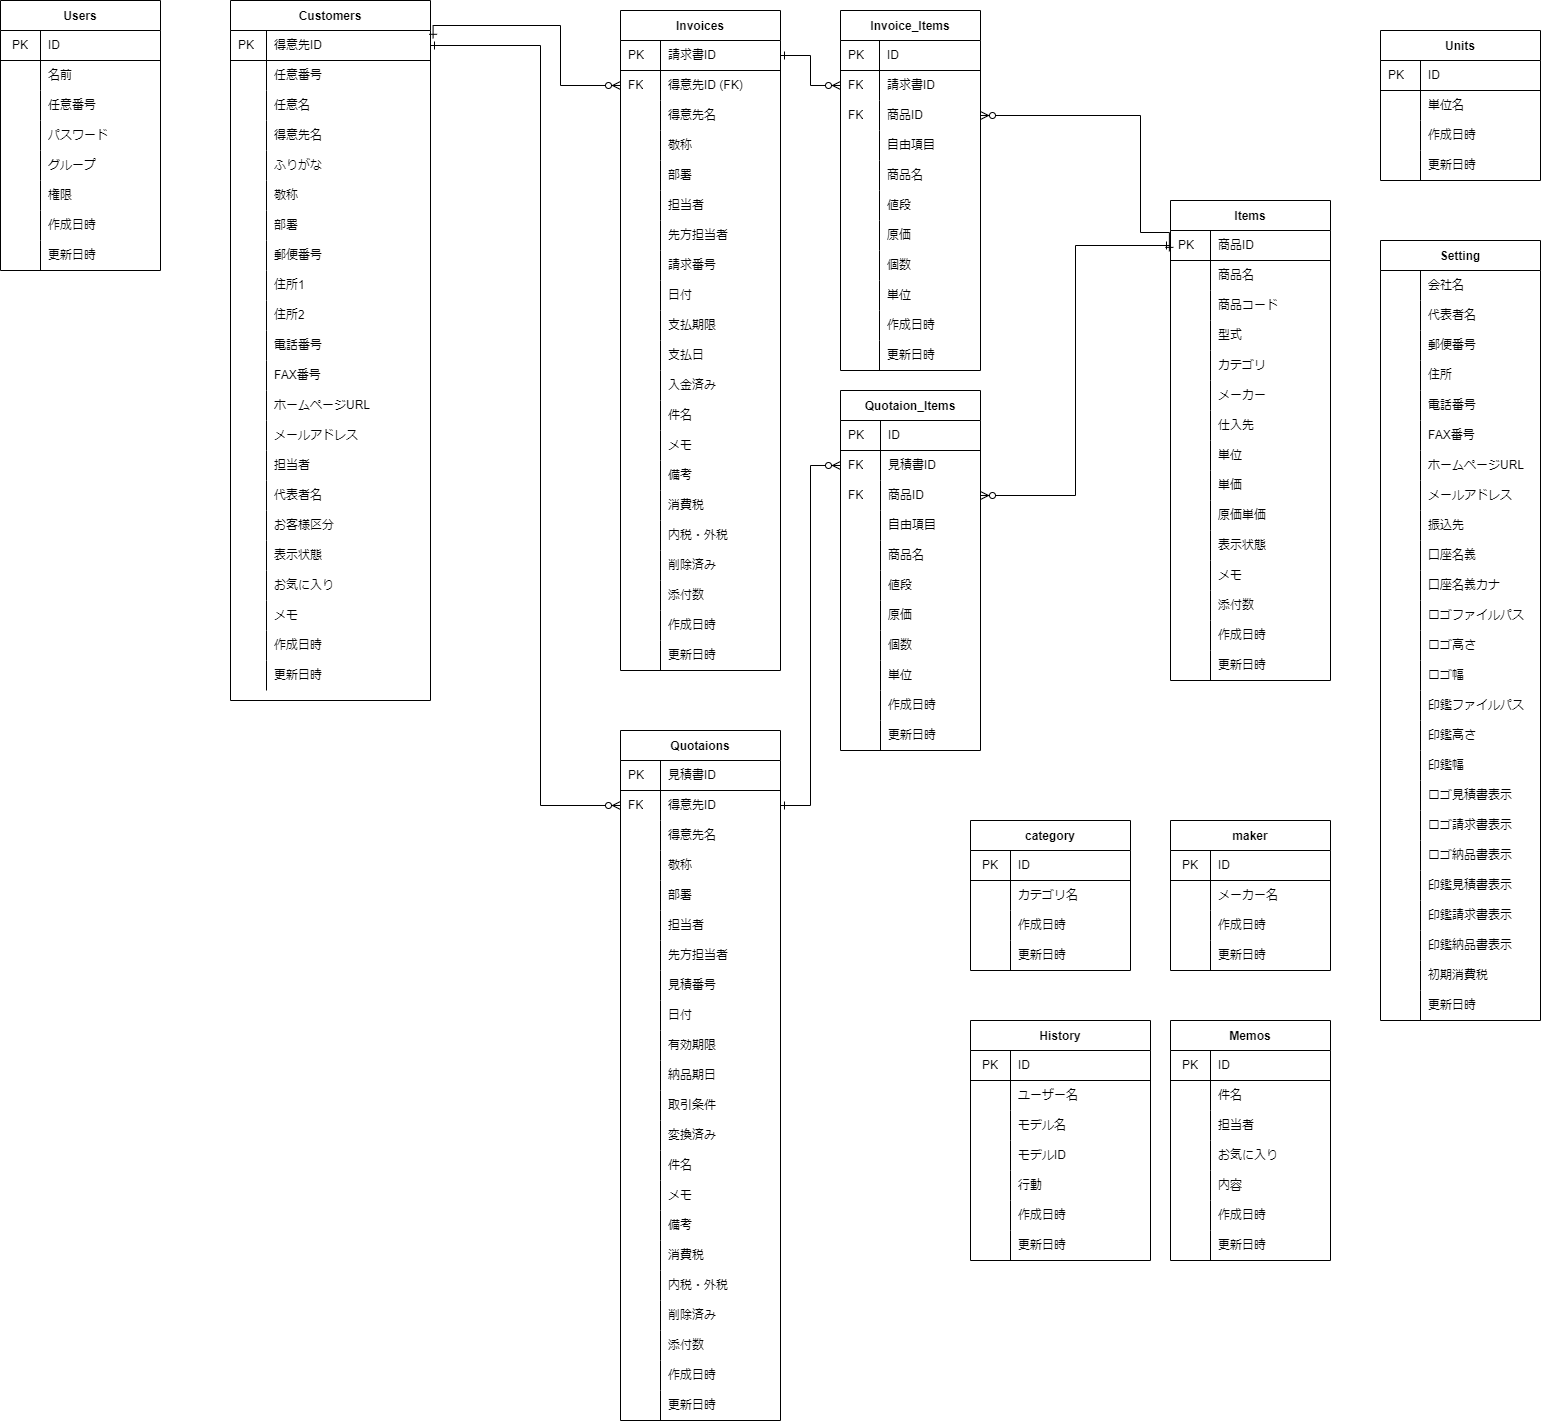
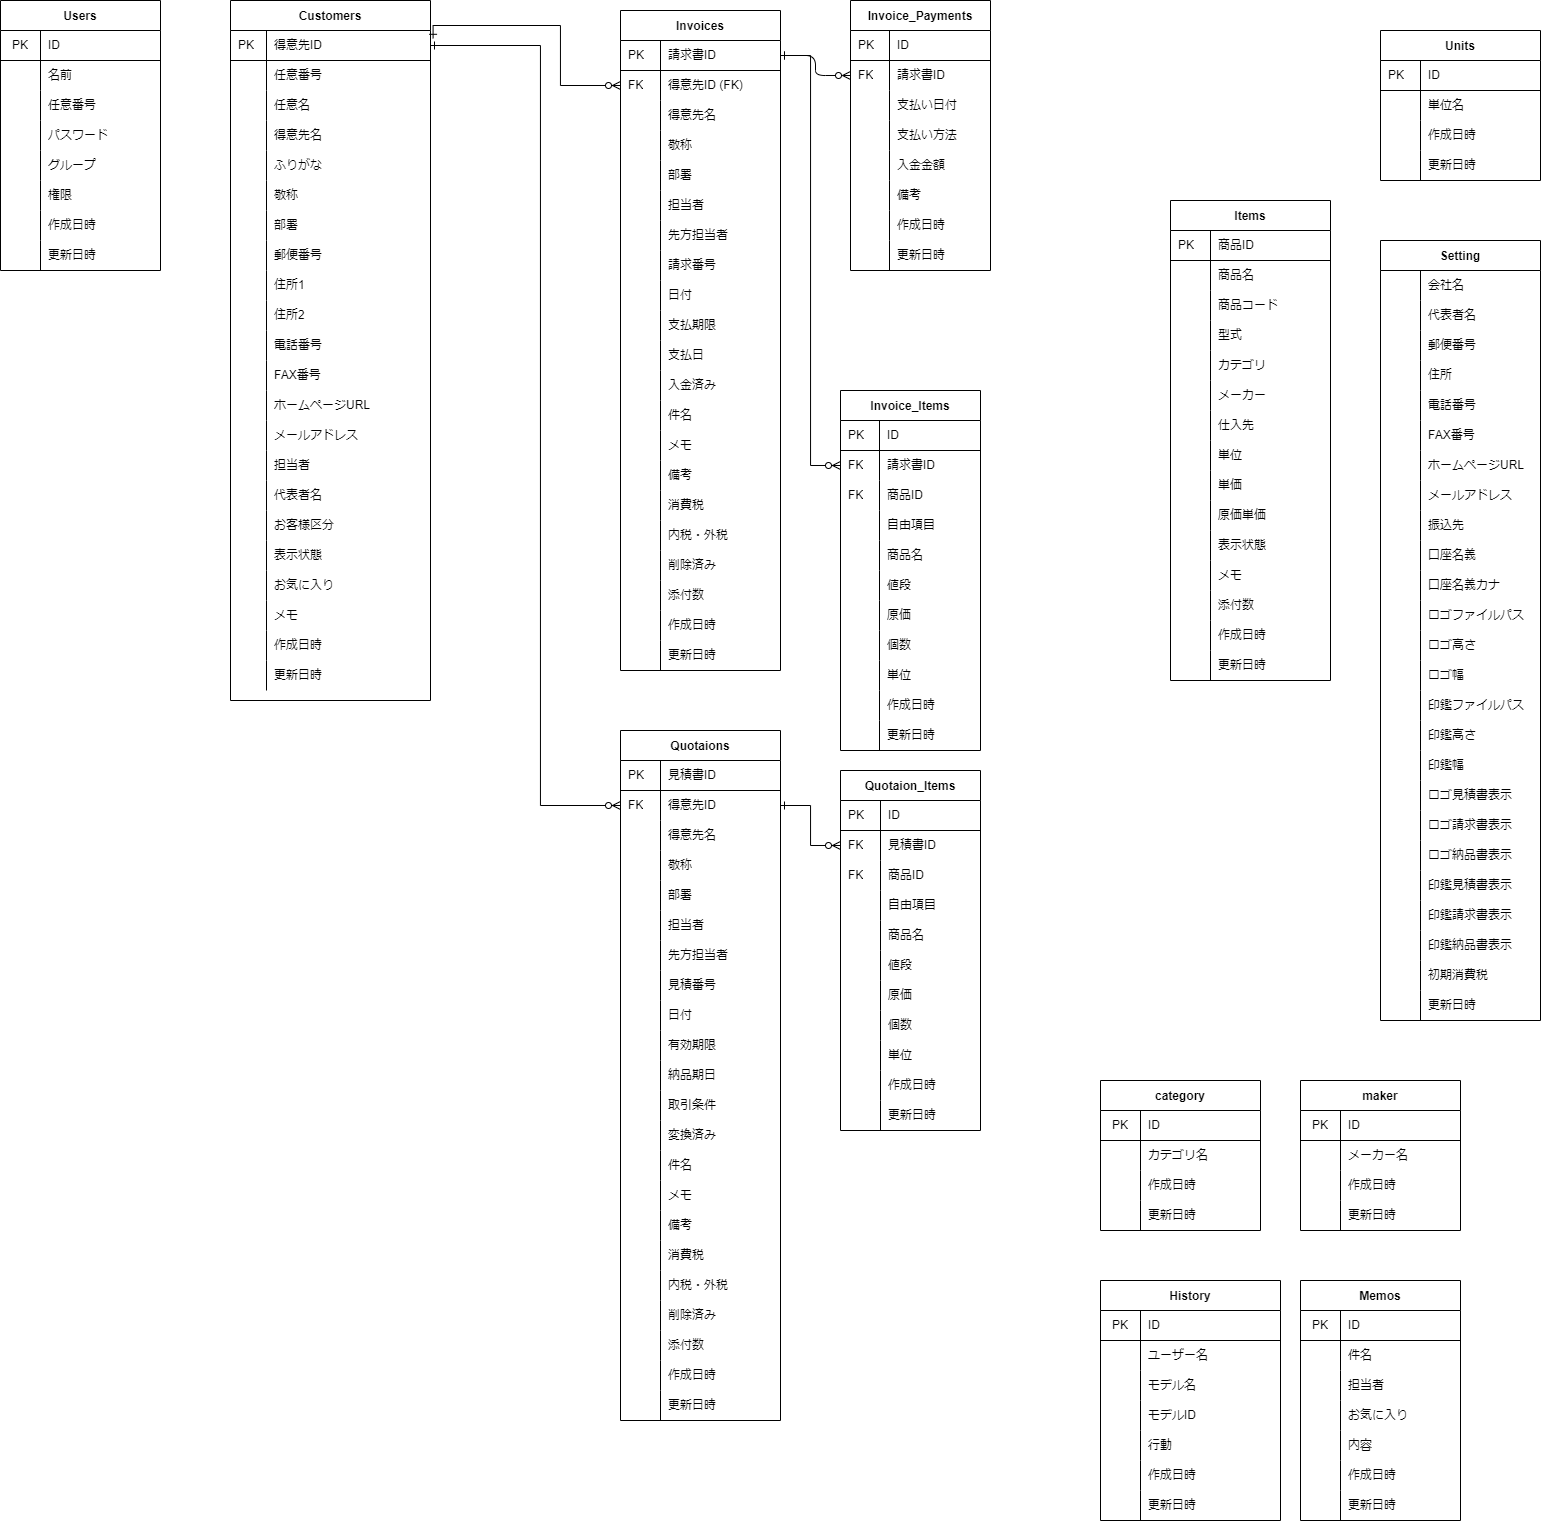
請求書＿入金テーブル作成。それに付随するスクリプト修正。API作成。

diff --git a/app/api.py b/app/api.py
@@ -787,6 +787,114 @@ def invoice_item_destroy(id):
     return jsonify({"result": "OK", "id": id, "data": ''})
 
 
+# 請求書＿入金(Invoice_Payments)
+@app.route('/invoice_payments', methods=['GET'])
+def invoice_payment_index():
+    invoicePayments = Invoice_Payment.query.all()
+    newHistory = History(
+        userName=current_user.id,
+        modelName='InvoicePayments',
+        modelId='',
+        action='gets'
+    )
+    db.session.add(newHistory)
+    db.session.commit()
+    return jsonify(Invoice_PaymentSchema(many=True).dump(invoicePayments))
+
+
+@app.route('/invoice_payment/<id>', methods=['GET'])
+def invoice_payment_show(id):
+    invoicePaymentCount = Invoice_Payment.query.filter(
+        Invoice_Payment.id == id).count()
+    if invoicePaymentCount:
+        invoicePayment = Invoice_Payment.query.filter(
+            Invoice_Payment.id == id).first()
+        newHistory = History(
+            userName=current_user.id,
+            modelName='InvoicePayments',
+            modelId=id,
+            action='get')
+        db.session.add(newHistory)
+        db.session.commit()
+        return jsonify(Invoice_PaymentSchema().dump(invoicePayment))
+    else:
+        return jsonify([])
+
+
+@app.route('/invoice_payments/<hid>', methods=['GET'])
+def invoice_payment_show_by_invoiceId(hid):
+    invoicePayments = Invoice_Payment.query.filter(
+        Invoice_Payment.invoiceId == hid).all()
+    newHistory = History(
+        userName=current_user.id,
+        modelName='InvoicePayments',
+        modelId=hid,
+        action='gets')
+    db.session.add(newHistory)
+    db.session.commit()
+    return jsonify(Invoice_PaymentSchema(many=True).dump(invoicePayments))
+
+
+@app.route('/invoice_payment', methods=['POST'])
+def invoice_payment_create():
+    data = request.json
+    newInvoiceItem = Invoice_Payment(
+        invoiceId=data.get('invoiceId'),
+        paymentDate=data.get('paymentDate'),
+        paymentMethod=data.get('paymentMethod'),
+        paymentAmount=data.get('paymentAmount'),
+        remarks=data.get('remarks'),
+    )
+    db.session.add(newInvoiceItem)
+    db.session.commit()
+    id = newInvoiceItem.id
+    newHistory = History(
+        userName=current_user.id,
+        modelName='InvoicePayments',
+        modelId=id,
+        action='post')
+    db.session.add(newHistory)
+    db.session.commit()
+    return jsonify({"result": "OK", "id": id, "data": data})
+
+
+@app.route('/invoice_payment/<id>', methods=['PUT'])
+def invoice_payment_update(id):
+    data = request.json
+    invoicePayment = Invoice_Payment.query.filter(
+        Invoice_Payment.id == id).one()
+    invoicePayment.invoiceId = data.get('invoiceId')
+    invoicePayment.paymentDate = data.get('paymentDate')
+    invoicePayment.paymentMethod = data.get('paymentMethod')
+    invoicePayment.paymentAmount = data.get('paymentAmount')
+    invoicePayment.remarks = data.get('remarks')
+
+    newHistory = History(
+        userName=current_user.id,
+        modelName='InvoicePayments',
+        modelId=id,
+        action='put'
+    )
+    db.session.add(newHistory)
+    db.session.commit()
+    return jsonify({"result": "OK", "id": id, "data": data})
+
+
+@app.route('/invoice_payment/<id>', methods=['DELETE'])
+def invoice_payment_destroy(id):
+    invoicePayment = Invoice_Payment.query.filter(
+        Invoice_Payment.id == id).delete()
+    newHistory = History(
+        userName=current_user.id,
+        modelName='InvoicePayments',
+        modelId=id,
+        action='delete'
+    )
+    db.session.add(newHistory)
+    db.session.commit()
+    return jsonify({"result": "OK", "id": id, "data": ''})
+
+
 # 見積書(Quotations)
 @app.route('/v1/quotations', methods=['GET'])
 @app.route('/quotations', methods=['GET'])

diff --git a/app/models.py b/app/models.py
@@ -129,6 +129,8 @@ class Invoice(db.Model):
                           default=datetime.now, onupdate=datetime.now)
     invoice_items = db.relationship(
         'Invoice_Item', backref='invoice', uselist=True, cascade='all, delete',)
+    invoice_payments = db.relationship(
+        'Invoice_Payment', backref='invoice', uselist=True, cascade='all, delete',)
 
 
 class Invoice_Item(db.Model):
@@ -144,6 +146,21 @@ class Invoice_Item(db.Model):
     cost = db.Column(db.Integer)
     count = db.Column(db.Integer)
     unit = db.Column(db.String)
+    createdAt = db.Column(db.DateTime, nullable=False, default=datetime.now)
+    updatedAt = db.Column(db.DateTime, nullable=False,
+                          default=datetime.now, onupdate=datetime.now)
+
+
+class Invoice_Payment(db.Model):
+
+    __tablename__ = 'invoice_payments'
+
+    id = db.Column(db.Integer, primary_key=True)
+    invoiceId = db.Column(db.Integer, db.ForeignKey('invoices.id'))
+    paymentDate = db.Column(db.Date)
+    paymentMethod = db.Column(db.String)
+    paymentAmount = db.Column(db.Integer)
+    remarks = db.Column(db.String)
     createdAt = db.Column(db.DateTime, nullable=False, default=datetime.now)
     updatedAt = db.Column(db.DateTime, nullable=False,
                           default=datetime.now, onupdate=datetime.now)
@@ -345,11 +362,18 @@ class Invoice_ItemSchema(ma.SQLAlchemyAutoSchema):
         include_fk = True
 
 
+class Invoice_PaymentSchema(ma.SQLAlchemyAutoSchema):
+    class Meta:
+        model = Invoice_Payment
+        include_fk = True
+
+
 class InvoiceSchema(ma.SQLAlchemyAutoSchema):
     class Meta:
         model = Invoice
         include_fk = True
     invoice_items = ma.Nested(Invoice_ItemSchema, many=True)
+    invoice_payments = ma.Nested(Invoice_PaymentSchema, many=True)
 
 
 class Quotation_ItemSchema(ma.SQLAlchemyAutoSchema):

diff --git a/app/seeder.py b/app/seeder.py
@@ -7,7 +7,7 @@ from werkzeug.security import generate_password_hash, check_password_hash
 def seeder():
 
     models = [User, Customer, Item, Invoice,
-              Invoice_Item, Quotation, Quotation_Item, Memo, Unit, Category, Maker, History, Setting]
+              Invoice_Item, Invoice_Payment, Quotation, Quotation_Item, Memo, Unit, Category, Maker, History, Setting]
 
     for model in models:
         db.session.query(model).delete()
@@ -107,6 +107,27 @@ def seeder():
     invoice_items = Invoice_Item.query.all()
     for invoice_item in invoice_items:
         print(invoice_item.count)
+
+    # -----Invoice_Payments-----
+    print('----Invoice_Payments----')
+    invoice_payments = [
+        Invoice_Payment(invoiceId=1, paymentDate=date(2022, 1, 1),
+                        paymentMethod='口座振込', paymentAmount=100, remarks="備考１"),
+        Invoice_Payment(invoiceId=1, paymentDate=date(2022, 1, 1),
+                        paymentMethod='現金', paymentAmount=20, remarks="備考２"),
+        Invoice_Payment(invoiceId=2, paymentDate=date(2022, 1, 1),
+                        paymentMethod='クレジット', paymentAmount=30, remarks="備考３"),
+        Invoice_Payment(invoiceId=2, paymentDate=date(2022, 1, 1),
+                        paymentMethod='口座振込', paymentAmount=1100,  remarks="備考４"),
+        Invoice_Payment(invoiceId=3, paymentDate=date(2022, 1, 1),
+                        paymentMethod='クレジット', paymentAmount=120,  remarks="備考５"),
+    ]
+    db.session.add_all(invoice_payments)
+    db.session.commit()
+
+    invoice_payments = Invoice_Payment.query.all()
+    for invoice_payment in invoice_payments:
+        print(invoice_payment.paymentAmount)
 
     # -----Quotations-----
     print('----Quotations----')

diff --git a/models.md b/models.md
@@ -110,6 +110,21 @@
 
 <br>
 
+## Invoice_Payments
+
+| 項目名        | 和名       | タイプ   | 備考                           | 
+| ------------- | ---------- | -------- | ------------------------------ | 
+| id            | id         | integer  |                                | 
+| invoiceId     | 請求書ID   | integer  | 請求書テーブルと紐づく         | 
+| paymentDate   | 支払い日付 | date     |                                | 
+| paymentMethod | 支払い方法 | string   | 口座振込・現金・クレジット        | 
+| paymentAmount | 入金金額   | integer  |                                | 
+| remarks       | 備考       | string   |                                | 
+| createdAt     | 作成日時   | datetime |                                | 
+| updatedAt     | 更新日時   | datetime |                                | 
+
+<br>
+
 ## Quotations
 
 | 項目名       | 和名           | タイプ    |  備考                                                     | 
